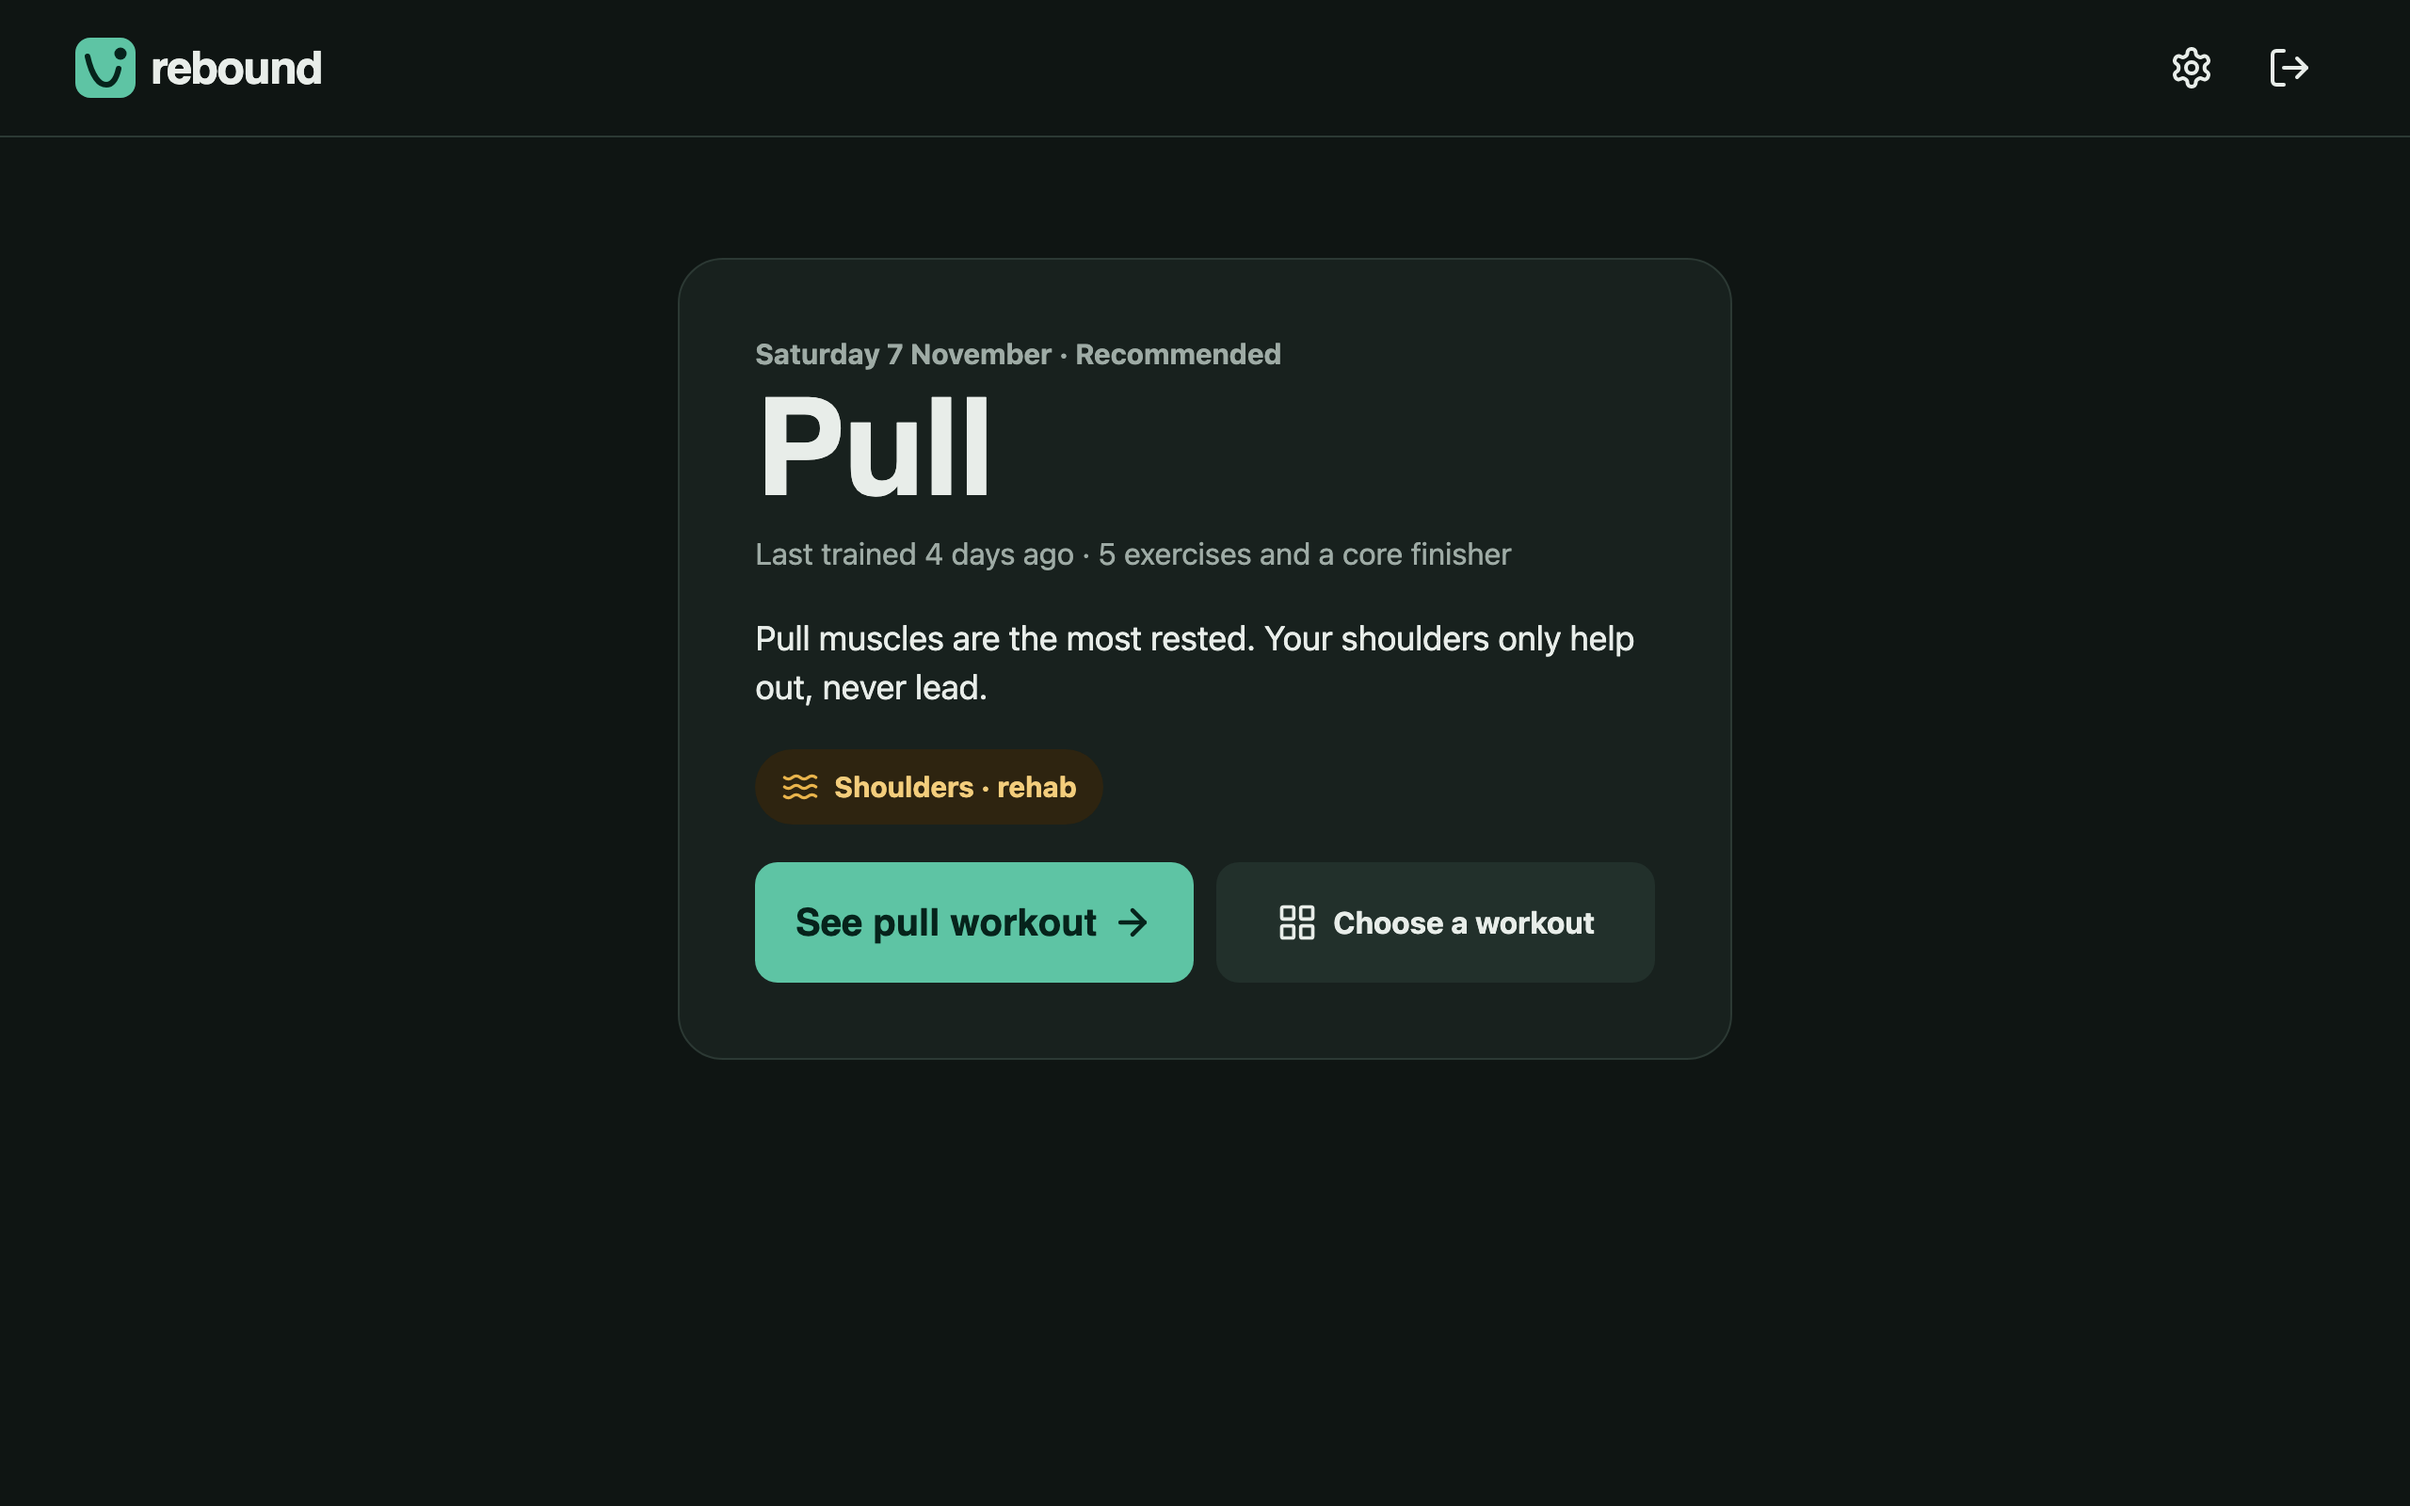
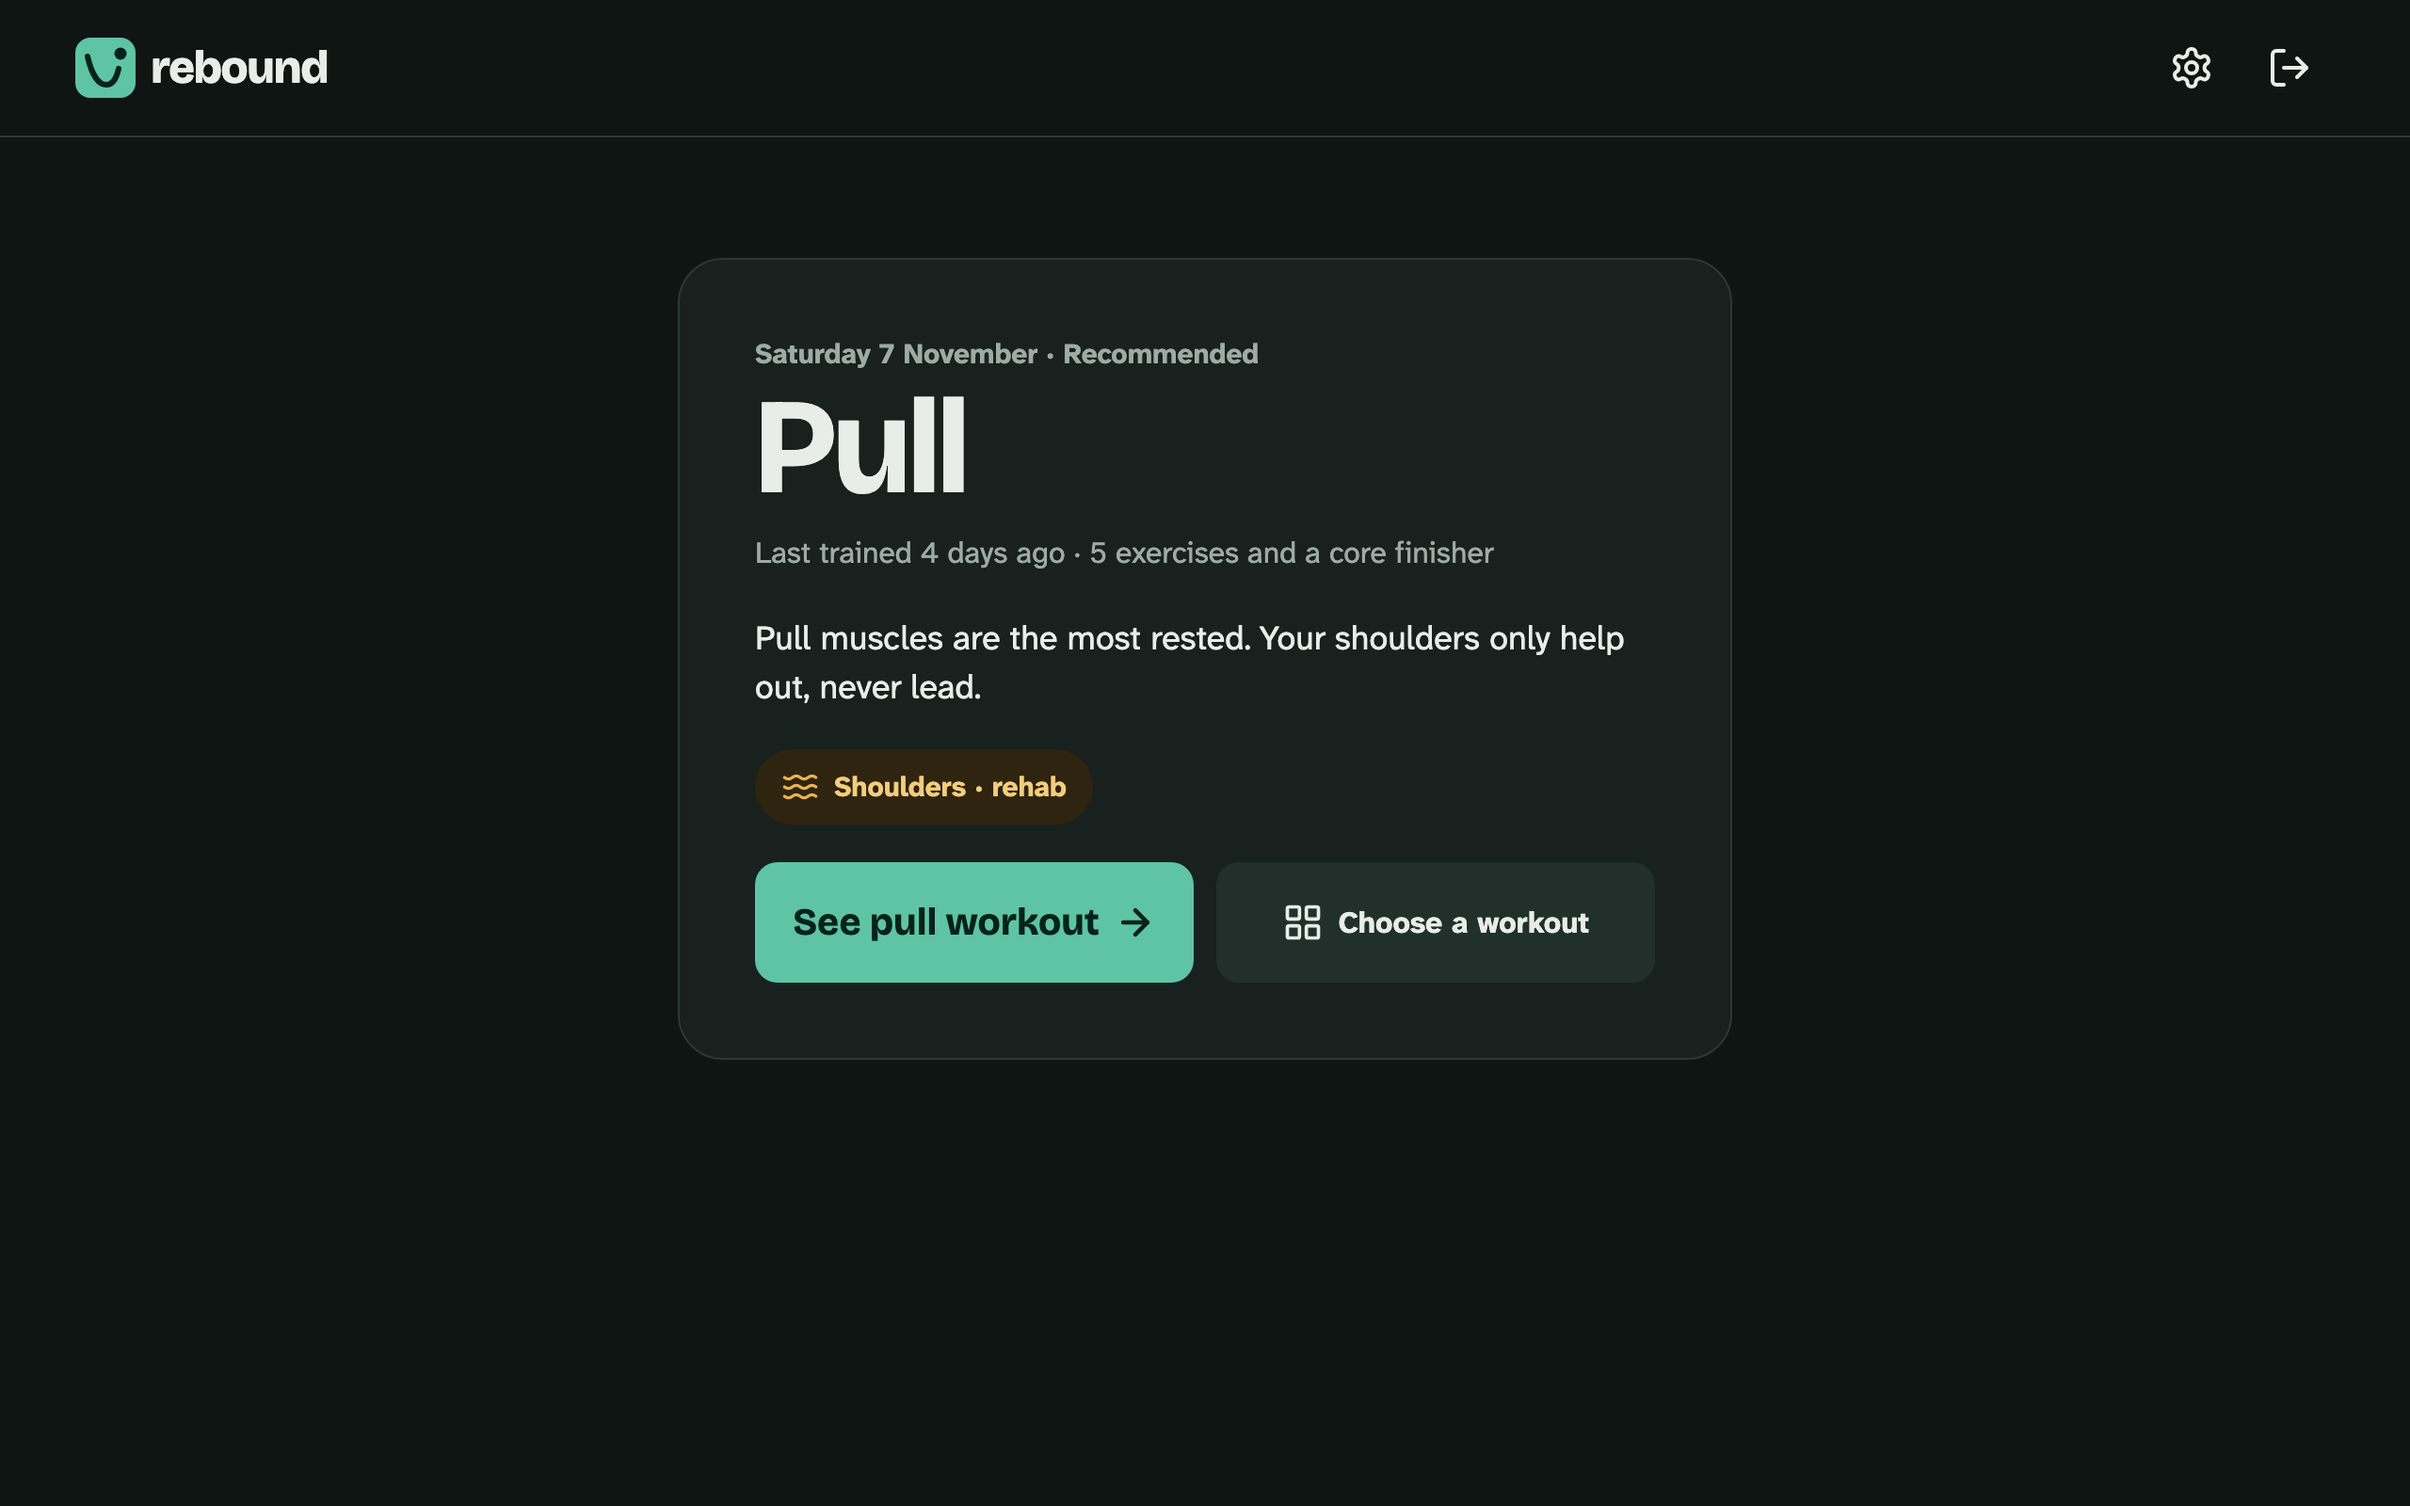
Update #46 designs after review: date-only kicker, Done card lines, desktop Upper body tapped

diff --git a/docs/designs/46/prototype/DesktopHome.dc.html b/docs/designs/46/prototype/DesktopHome.dc.html
@@ -35,7 +35,8 @@ body{margin:0}
         <span style="width: 40px; height: 40px; flex-shrink: 0; border-radius: 999px; background: var(--sec); display: grid; place-items: center; color: var(--primary)"><svg width="22" height="22" viewBox="0 0 24 24" fill="none" stroke="currentColor" stroke-width="2" stroke-linecap="round" stroke-linejoin="round" aria-hidden="true"><circle cx="12" cy="12" r="10"></circle><path d="m9 12 2 2 4-4"></path></svg></span>
         <span style="display: flex; flex-direction: column; gap: 2px; flex: 1; min-width: 0">
           <span style="font-size: 15px; line-height: 20px; font-weight: 700; color: var(--mfg)">Done today</span>
-          <span style="font-size: 18px; line-height: 24px; font-weight: 700; font-variant-numeric: tabular-nums">Pull · 7:42 am · 18 sets</span>
+          <span style="font-size: 18px; line-height: 24px; font-weight: 700">Pull</span>
+          <span style="font-size: 15px; line-height: 20px; color: var(--mfg); font-variant-numeric: tabular-nums">7:42 am · 18 sets</span>
         </span>
         <span style="display: flex; align-items: center; gap: 2px; font-size: 15px; font-weight: 700; color: var(--primary)">Summary<svg width="20" height="20" viewBox="0 0 24 24" fill="none" stroke="currentColor" stroke-width="2" stroke-linecap="round" stroke-linejoin="round" aria-hidden="true"><path d="m9 18 6-6-6-6"></path></svg></span>
       </a>

diff --git a/docs/designs/46/prototype/Main.dc.html b/docs/designs/46/prototype/Main.dc.html
@@ -34,7 +34,8 @@ body{margin:0}
         <span style="width: 40px; height: 40px; flex-shrink: 0; border-radius: 999px; background: var(--sec); display: grid; place-items: center; color: var(--primary)"><svg width="22" height="22" viewBox="0 0 24 24" fill="none" stroke="currentColor" stroke-width="2" stroke-linecap="round" stroke-linejoin="round" aria-hidden="true"><circle cx="12" cy="12" r="10"></circle><path d="m9 12 2 2 4-4"></path></svg></span>
         <span style="display: flex; flex-direction: column; gap: 2px; flex: 1; min-width: 0">
           <span style="font-size: 15px; line-height: 20px; font-weight: 700; color: var(--mfg)">Done today</span>
-          <span style="font-size: 18px; line-height: 24px; font-weight: 700; font-variant-numeric: tabular-nums">Pull · 7:42 am · 18 sets</span>
+          <span style="font-size: 18px; line-height: 24px; font-weight: 700">Pull</span>
+          <span style="font-size: 15px; line-height: 20px; color: var(--mfg); font-variant-numeric: tabular-nums">7:42 am · 18 sets</span>
         </span>
         <span style="display: flex; align-items: center; gap: 2px; font-size: 15px; font-weight: 700; color: var(--primary)">Summary<svg width="20" height="20" viewBox="0 0 24 24" fill="none" stroke="currentColor" stroke-width="2" stroke-linecap="round" stroke-linejoin="round" aria-hidden="true"><path d="m9 18 6-6-6-6"></path></svg></span>
       </a>

diff --git a/docs/designs/46/prototype/Desktop.dc.html b/docs/designs/46/prototype/Desktop.dc.html
@@ -34,7 +34,7 @@ body{margin:0}
       <a href="DesktopHome.dc.html" style="align-self: flex-start; display: inline-flex; align-items: center; gap: 4px; min-height: 48px; margin: -12px 0 -12px -8px; padding: 0 8px; border-radius: 12px; font-size: 16px; font-weight: 700; text-decoration: none"><svg width="20" height="20" viewBox="0 0 24 24" fill="none" stroke="currentColor" stroke-width="2" stroke-linecap="round" stroke-linejoin="round" aria-hidden="true"><path d="m15 18-6-6 6-6"></path></svg>Home</a>
     <section aria-label="Today's session" style="display: flex; flex-direction: column; gap: 16px">
       <div style="display: flex; flex-direction: column; gap: 4px">
-        <p style="margin: 0; font-size: 15px; line-height: 20px; font-weight: 700; color: var(--mfg)">Saturday 7 November · {{kicker}}</p>
+        <p style="margin: 0; font-size: 15px; line-height: 20px; font-weight: 700; color: var(--mfg)">Saturday 7 November</p>
         <h1 style="margin: 0; font-family: 'Bricolage Grotesque', sans-serif; font-size: 72px; line-height: 72px; font-weight: 700; letter-spacing: -0.02em">{{name}}</h1>
         <p style="margin: 0; font-size: 16px; line-height: 24px; color: var(--mfg)">{{lastTrained}}</p>
       </div>

diff --git a/docs/designs/46/prototype/Choose.dc.html b/docs/designs/46/prototype/Choose.dc.html
@@ -26,7 +26,7 @@ body{margin:0}
   <main style="display: flex; flex-direction: column; gap: 24px; padding: 8px 16px 24px; flex: 1">
     <section aria-label="Today's session" style="display: flex; flex-direction: column; gap: 16px">
       <div style="display: flex; flex-direction: column; gap: 4px">
-        <p style="margin: 0; font-size: 15px; line-height: 20px; font-weight: 700; color: var(--mfg)">Sat 7 Nov · {{kicker}}</p>
+        <p style="margin: 0; font-size: 15px; line-height: 20px; font-weight: 700; color: var(--mfg)">Sat 7 Nov</p>
         <h1 style="margin: 0; font-family: 'Bricolage Grotesque', sans-serif; font-size: 44px; line-height: 48px; font-weight: 700; letter-spacing: -0.02em">{{name}}</h1>
         <p style="margin: 0; font-size: 16px; line-height: 24px; color: var(--mfg)">{{lastTrained}}</p>
       </div>

diff --git a/docs/designs/46/prototype/DesktopUpper.dc.html b/docs/designs/46/prototype/DesktopUpper.dc.html
@@ -1,0 +1,24 @@
+<!doctype html>
+<html lang="en">
+<head>
+<meta charset="utf-8">
+<title>Desktop choose, Upper body tapped, light</title>
+<script src="./support.js"></script>
+</head>
+<body>
+<x-dc>
+<helmet>
+<link rel="stylesheet" href="https://fonts.googleapis.com/css2?family=Bricolage+Grotesque:opsz,wght@12..96,500..800&amp;family=Atkinson+Hyperlegible+Next:wght@400;700&amp;display=swap">
+<style>body{margin:0}</style>
+</helmet>
+<div style="width: 100%; min-height: 1000px; background: #f5f3ee">
+<dc-import start-type="upper" name="Desktop" theme="light" hint-size="100%,1000px"></dc-import>
+</div>
+</x-dc>
+<script type="text/x-dc" data-dc-script data-props='{"$preview":{"width":1280,"height":1000}}'>
+class Component extends DCLogic {
+renderVals() { return {}; }
+}
+</script>
+</body>
+</html>

diff --git a/docs/designs/46/prototype/DesktopDarkUpper.dc.html b/docs/designs/46/prototype/DesktopDarkUpper.dc.html
@@ -1,0 +1,24 @@
+<!doctype html>
+<html lang="en">
+<head>
+<meta charset="utf-8">
+<title>Desktop choose, Upper body tapped, dark</title>
+<script src="./support.js"></script>
+</head>
+<body>
+<x-dc>
+<helmet>
+<link rel="stylesheet" href="https://fonts.googleapis.com/css2?family=Bricolage+Grotesque:opsz,wght@12..96,500..800&amp;family=Atkinson+Hyperlegible+Next:wght@400;700&amp;display=swap">
+<style>body{margin:0}</style>
+</helmet>
+<div style="width: 100%; min-height: 1000px; background: #0f1513">
+<dc-import start-type="upper" name="Desktop" theme="dark" hint-size="100%,1000px"></dc-import>
+</div>
+</x-dc>
+<script type="text/x-dc" data-dc-script data-props='{"$preview":{"width":1280,"height":1000}}'>
+class Component extends DCLogic {
+renderVals() { return {}; }
+}
+</script>
+</body>
+</html>

diff --git a/docs/designs/46/handoff-README.md b/docs/designs/46/handoff-README.md
@@ -15,17 +15,23 @@ prototype/   .dc.html artboards and canvas.json. Main (home), Choose (type picke
 - Desktop: the same content in one centred card, actions side by side.
 
 2. Today's workout (2-todays-workout-*)
-- Reached from "See pull workout". Back arrow, title "Today's workout", the recommendation, the exercise list and core finisher, sticky Start workout.
+- Reached from "See pull workout". Back arrow, title "Today's workout", the date (no repeated label), the recommendation, the exercise list and core finisher, sticky Start workout.
 - No type row. Desktop keeps today's three columns (session + Start, list, exercise detail) with a "Home" back link.
 
 3. Choose a workout (3-choose-*)
 - Same as Today's workout plus a "Workout type" section above the list: six 48px buttons in a 3 × 2 grid (Full body, Upper body, Push, Pull, Legs, Core). Selected = filled primary + check icon, aria-pressed.
 - The recommended type starts selected. Picking another changes the exercises and the why line ("You chose upper body today."), and shows "Back to Pull" on the section header.
+- Desktop shows both the recommended type selected and Upper body tapped.
 - Recovering: a note under the type row on the secondary fill with a clock icon, e.g. "Legs were trained yesterday." The workout still shows.
 - Core: five abdominal and lower-back exercises, no core finisher.
 
 4. Home after finishing (4-home-after-finishing-*)
-- "Done today" card at the top (circle-check, "Pull · 7:42 am · 18 sets", "Summary" link to the finished workout).
+- "Done today" card at the top: circle-check, "Done today" label, "Pull" on its own line, "7:42 am · 18 sets" below, and a "Summary" link to the finished workout.
 - Fresh recommendation below (Push), kicker "Next workout".
 
 Exercises, weights and timings are sample data from the user's equipment; the exercise detail panel on desktop is a placeholder for the existing component.
+
+Agreed during review (now in the #46 spec)
+- Home shows the size line ("Last trained 4 days ago · 5 exercises and a core finisher") and is labelled "Recommended"; after finishing, "Next workout".
+- The Done today card's link is labelled "Summary".
+- Today's workout and Choose a workout show only the date above the type name, so "Today's workout" isn't repeated.
